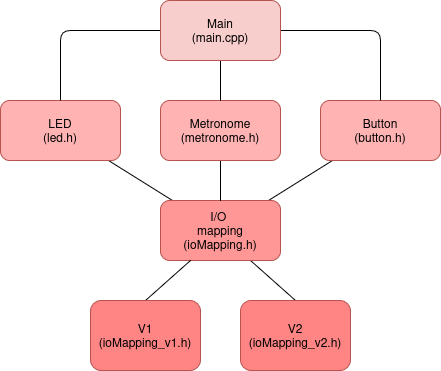
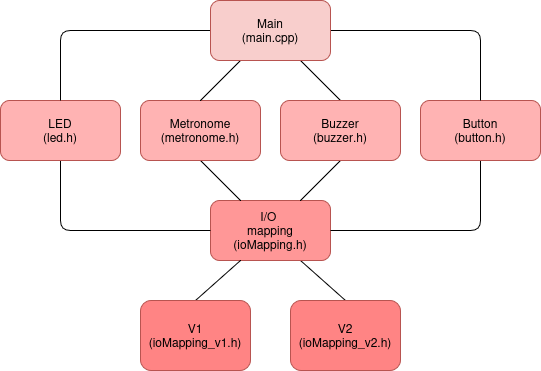
updated the documentation with the new button and new picture to show the current architecture

diff --git a/src/main.cpp b/src/main.cpp
@@ -39,16 +39,16 @@ int main() {
     sei();
 
     
-    if (button_up.button_event == 1) {
+    if (button_up.button_pressed == 1) {
         cli();
-        button_up.button_event = 0;
+        button_up.button_pressed = 0;
         sei();
         increaseMetronomeRate();
         Serial.println("Incresed the rate");
     }
-    if (button_down.button_event == 1) {
+    if (button_down.button_pressed == 1) {
         cli();
-        button_down.button_event = 0;
+        button_down.button_pressed = 0;
         sei();
         decreaseMetronomeRate();
         Serial.println("Decreased the rate");

diff --git a/src/button.h b/src/button.h
@@ -9,7 +9,7 @@ const static int threshold_debouncing = 1000;
 struct Button {
     volatile uint8_t debounced_button_value;
     volatile uint16_t counter;
-    volatile uint8_t button_event;
+    volatile uint8_t button_pressed;
     volatile uint8_t readBit;
 };
 
@@ -44,7 +44,7 @@ void readButton(volatile struct Button* butonPtr) {
         
         if (butonPtr->counter == 0) {
            
-            butonPtr->button_event = 1;
+            butonPtr->button_pressed = 1;
             butonPtr->debounced_button_value = raw_reading;
             butonPtr->counter = threshold_debouncing;
 

diff --git a/README.md b/README.md
@@ -7,7 +7,7 @@ This repo provides the implementation of a digital metronome using the ATmega328
 > Side Note: an implementation using the NUCLEO-F401RE can be found in the folder `Implementation on NUCLEO-F401RE`.
 
 Required hardware:
-- Button: To change the BPM of the metronome.
+- Buttons: To change the BPM of the metronome (one to increase the BPM and another one to decrese it).
 - LED: Shows the metronome's pulse.
 - Buzzer: to create the click of the metronome.
 - Display **(to be implemented in the future)**: displays the current BPM of the metronome.
@@ -27,7 +27,9 @@ Hardware interface specified in the ioMapping_v1.h and ioMapping.h files.
 
 Ex for the version 1 of the board (`ioMapping_v1.h`)
 Required hardware:
-- Button: Pin D9, which corresponds to the pin PB1 in the microcontroller. The timer 0 requests checking the reading periodically.
+- Buttons: 
+    - Button to increase the BPM: Pin D9, which corresponds to the pin PB1 in the microcontroller. The timer 0 requests checking the reading periodically (once every ms) and the pressed state is validated by `threshold_debouncing` consistent readings.
+    - Button to decrease the BPM: Pin D10, which corresponds to the pin PB2 in the microcontroller. The timer 0 requests checking the reading periodically, in the same way as for the other button.
 - LED: Pin D13, which corresponds to the pin PB5 in the microcontroller. The timer 1 toggles the LED.
 - Buzzer: Pin D8 which corresponds to the pin PB0 which in the microcontroller. The timer 1 toggles the Buzzer.
 